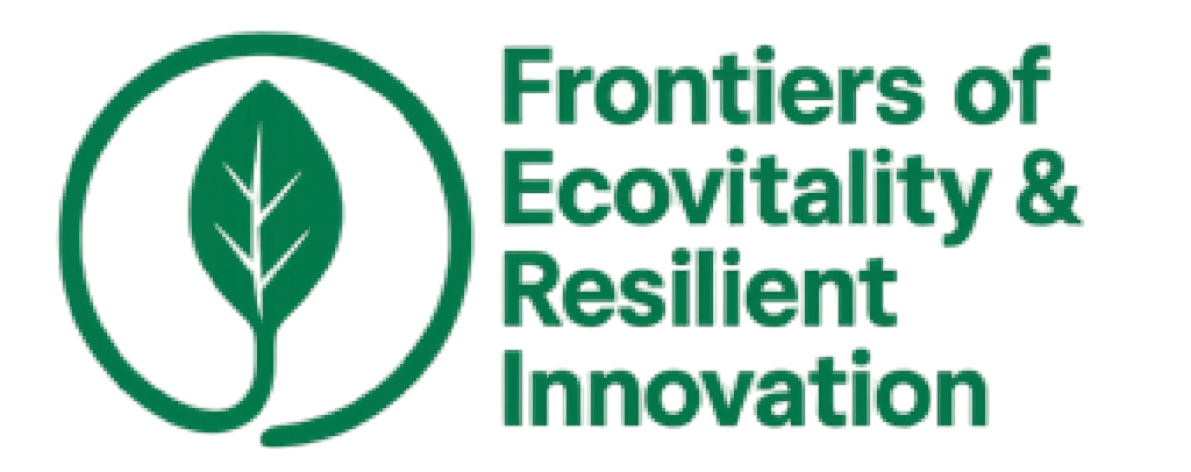
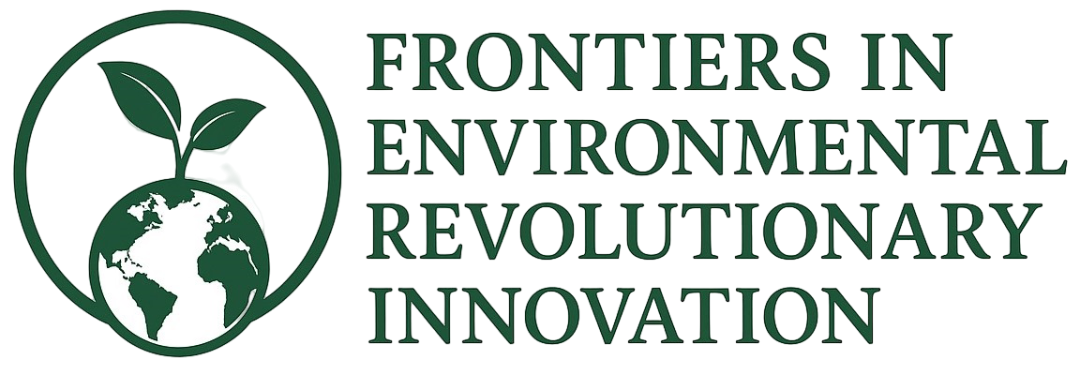
update changes as requested

diff --git a/main_app/templates/about.html b/main_app/templates/about.html
@@ -1,6 +1,6 @@
 {% extends 'base.html' %}
 
-{% block title %}About the Journal - Frontiers of Ecovitality & Resilient Innovation (FERI){% endblock %}
+{% block title %}About the Journal - Frontiers in Environmental Revolutionary Innovation (FERI){% endblock %}
 
 {% block content %}
 <br><br><br><br><br>
@@ -9,7 +9,7 @@
 <section class="about-hero py-5" style="background: linear-gradient(rgba(0,0,0,0.7), rgba(0,0,0,0.7)), url('{{ url_for('static', filename='assets/img/research-hero.jpg') }}') no-repeat center center; background-size: cover;">
     <div class="container text-center py-4">
         <h1 class="display-5 fw-bold mb-2 text-white">About FERI Journal</h1>
-        <h4 class="mb-3 text-light">Frontiers of Ecovitality & Resilient Innovation, Starting from 2025</h4>
+        <h4 class="mb-3 text-light">Frontiers in Environmental Revolutionary Innovation, Starting from 2025</h4>
         <p class="lead mb-4 text-light">
             A peer-reviewed international journal devoted to advancing research and knowledge at the intersection of ecology, vitality sciences, environmental health, and sustainable innovation.
         </p>
@@ -29,7 +29,7 @@
                 <div class="about-content">
                     <h3 class="h4 mb-3">About FERI</h3>
                     <p class="mb-3">
-                        <strong>Frontiers of Ecovitality & Resilient Innovation (FERI)</strong> is a peer-reviewed international journal devoted 
+                        <strong>Frontiers in Environmental Revolutionary Innovation (FERI)</strong> is a peer-reviewed international journal devoted 
                         to advancing research and knowledge at the intersection of ecology, vitality sciences, environmental health, and 
                         sustainable innovation.
                     </p>
@@ -119,7 +119,7 @@
                     <div class="card-body text-center">
                         <h3 class="h4 mb-3">Overall Meaning</h3>
                         <p class="lead mb-3">
-                            ✨ “Frontiers of Ecovitality & Resilient Innovation” embodies the pursuit of pioneering research, knowledge, and practices 
+                            ✨ “Frontiers in Environmental Revolutionary Innovation” embodies the pursuit of pioneering research, knowledge, and practices 
                             that enhance the vitality of ecosystems while fostering innovative, adaptive, and sustainable solutions for a resilient future.
                         </p>
                         <p class="lead mb-0">

diff --git a/main_app/templates/homepage.html b/main_app/templates/homepage.html
@@ -1,6 +1,6 @@
 {% extends 'base.html' %}
 
-{% block title %}Homepage - Frontiers of Ecovitality & Resilient Innovation{% endblock %}
+{% block title %}Homepage - Frontiers in Environmental Revolutionary Innovation{% endblock %}
 
 {% block content %}
 <main class="main">
@@ -15,11 +15,11 @@
                 <div
                     class="col-lg-6 order-2 order-lg-1 d-flex flex-column justify-content-center"
                 >
-                    <div style="text-align: center; color: white; font-size: 28px; line-height: 1.2; font-family: monospace; font-weight: bold;">
+                    <div style="text-align: center; color: #095903; font-size: 28px; line-height: 1.2; font-family: monospace; font-weight: bold;">
                     International Multi-Disciplinary Journal
                     </div>
 
-                    <div style="text-align: center; color: white; font-size: 19px; margin-top: 8px; font-family: cursive;">
+                    <div style="text-align: center; color: #095903; font-size: 19px; margin-top: 8px; font-family: cursive;">
                     A peer-reviewed and refereed online journal — openly
                     accessible, widely indexed, multidisciplinary, and
                     globally recognized for academic and scholarly
@@ -888,7 +888,7 @@
 
         <div class="container text-center vertical-center my-5" data-aos="fade-up">
             <p>
-                Frontiers of Ecovitality & Resilient Innovation (FERI) - An
+                Frontiers in Environmental Revolutionary Innovation (FERI) - An
                 International Peer-Reviewed Multidisciplinary Journal
             </p>
         </div>
@@ -1000,7 +1000,7 @@
             <h2>Submission Guidelines</h2>
             <p>
                 Ensure your manuscript follows the required format before
-                submitting to Frontiers of Ecovitality & Resilient Innovation (FERI)
+                submitting to Frontiers in Environmental Revolutionary Innovation (FERI)
             </p>
         </div>
 
@@ -1214,7 +1214,7 @@
         <div class="container section-title" data-aos="fade-up">
             <h2>Document Upload Instructions</h2>
             <p>
-                For Authors of Frontiers of Ecovitality & Resilient Innovation (FERI) 
+                For Authors of Frontiers in Environmental Revolutionary Innovation (FERI) 
             </p>
         </div>
 

diff --git a/main_app/templates/ugc_care.html b/main_app/templates/ugc_care.html
@@ -1,6 +1,6 @@
 {% extends 'base.html' %}
 
-{% block title %}UGC-CARE Guidelines - Frontiers of Ecovitality & Resilient Innovation{% endblock %}
+{% block title %}UGC-CARE Guidelines - Frontiers in Environmental Revolutionary Innovation{% endblock %}
 
 {% block content %}
 <br><br><br><br><br>
@@ -75,7 +75,7 @@
   <div class="card">
     <div class="card-body">
       <h5 class="card-title"><i class="fas fa-info-circle icon-blue"></i> Introduction</h5>
-      <p class="card-text">FERI - Frontiers of Ecovitality & Resilient Innovation strictly follows the University Grants Commission (UGC) – Consortium for Academic and Research Ethics (CARE) protocols to promote academic integrity and publication ethics.</p>
+      <p class="card-text">FERI - Frontiers in Environmental Revolutionary Innovation strictly follows the University Grants Commission (UGC) – Consortium for Academic and Research Ethics (CARE) protocols to promote academic integrity and publication ethics.</p>
     </div>
   </div>
 

diff --git a/main_app/templates/base.html b/main_app/templates/base.html
@@ -3,7 +3,7 @@
    <head>
       <meta charset="utf-8" />
       <meta content="width=device-width, initial-scale=1.0" name="viewport" />
-      <title>FERI - Frontiers of Ecovitality & Resilient Innovation</title>
+      <title>FERI - Frontiers in Environmental Revolutionary Innovation</title>
       <meta name="description" content="" />
       <meta name="keywords" content="" />
 
@@ -158,7 +158,7 @@
                   </a>
                   <p>
                      <strong
-                        >Frontiers of Ecovitality & Resilient Innovation (FERI) </strong
+                        >Frontiers in Environmental Revolutionary Innovation (FERI) </strong
                      >
                      is a peer-reviewed international journal devoted to advancing research and knowledge at the intersection of ecology, vitality sciences, environmental health, and sustainable innovation.
                   </p>

diff --git a/main_app/templates/Payment.html b/main_app/templates/Payment.html
@@ -1,6 +1,6 @@
 {% extends 'base.html' %}
 
-{% block title %}Payment - Frontiers of Ecovitality & Resilient Innovation (FERI) {% endblock %}
+{% block title %}Payment - Frontiers in Environmental Revolutionary Innovation (FERI) {% endblock %}
 
 {% block content %}
 <br><br><br><br><br>
@@ -10,7 +10,7 @@
     <div class="container section-title" data-aos="fade-up">
         <h2>Payment Details<br /></h2>
         <p>
-            Please use the following payment methods to complete your transaction with Frontiers of Ecovitality & Resilient Innovation (FERI).
+            Please use the following payment methods to complete your transaction with Frontiers in Environmental Revolutionary Innovation (FERI).
         </p>
     </div>
     <!-- End Section Title -->

diff --git a/main_app/templates/Current_issue.html b/main_app/templates/Current_issue.html
@@ -1,6 +1,6 @@
 {% extends 'base.html' %}
 
-{% block title %}Current Research Issues - Frontiers of Ecovitality & Resilient Innovation{% endblock %}
+{% block title %}Current Research Issues - Frontiers in Environmental Revolutionary Innovation{% endblock %}
 
 {% block content %}
 <br><br><br><br>

diff --git a/main_app/templates/DOI_Allocation.html b/main_app/templates/DOI_Allocation.html
@@ -1,6 +1,6 @@
 {% extends 'base.html' %}
 
-{% block title %}DOI Allocation Policy - Frontiers of Ecovitality & Resilient Innovation{% endblock %}
+{% block title %}DOI Allocation Policy - Frontiers in Environmental Revolutionary Innovation{% endblock %}
 
 {% block content %}
 <br><br><br><br><br>

diff --git a/main_app/templates/peer_reviewed.html b/main_app/templates/peer_reviewed.html
@@ -1,6 +1,6 @@
 {% extends 'base.html' %}
 
-{% block title %}Peer-Reviewed Paper - Frontiers of Ecovitality & Resilient Innovation{% endblock %}
+{% block title %}Peer-Reviewed Paper - Frontiers in Environmental Revolutionary Innovation{% endblock %}
 
 {% block content %}
 <br><br><br><br><br>
